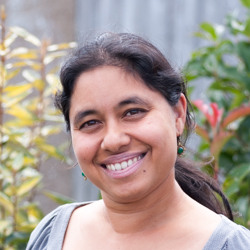
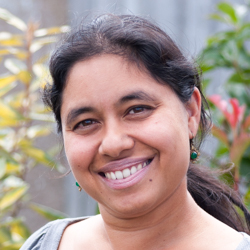
light changes why

diff --git a/index.html b/index.html
@@ -196,17 +196,13 @@
         <div><img alt="" class="icon" src="./img/mic.svg" /></div>
         <h1 class="spsf-color--first">Pourquoi <span class="spsf-name">Speak Safe</span>?</h1>
         <p><em>"&Ecirc;tre communicant n'est pas inné. On le devient"</em></p>
-        <p>La prise de parole vous sert à communiquer une idée à un groupe ou une personne.</p>
-        <p>Pour <strong>réussir</strong> votre communication, il faut <strong>lier la gestion du stress</strong> avec <strong>la construction</strong> de votre discours.</p>
+        <p>La prise de parole vous sert <strong>à communiquer</strong> une idée à un groupe ou une personne.</p>
+        <p>Pour <strong>réussir</strong> votre communication, il faut lier la gestion du stress et la construction de votre discours.</p>
         <br/>
         <h2 class="spsf-color--second"><span class="spsf-name">Speak Safe</span> vous permet :</h2>
-        <p><strong>De gagner du temps</strong> pour aller à l'essentiel.</p>
-        <p><strong>D'optimiser</strong> votre temps de parole dans le temps imparti.</p>
-        <p><strong>De réaliser</strong> des échanges <strong>efficaces</strong> pour garantir la compréhension du message.</p>
-        <!-- <p>Apprenez à parler librement en public en se sentant à l’aise :</p>
-        <p><strong><span class="spsf-name">Speak Safe</span> c’est croire en soi, se lancer, répéter et trouver la bonne méthode.</strong></p>
-        <p>Boostez votre message pour un meilleur impact !</p>
-        <p>Travaillez le fil conducteur du discours pour clarifier votre message.</p> -->
+        <p><strong>D'optimiser</strong> votre temps de parole.</p>
+        <p>D'obtenir des <strong>échanges efficaces</strong> pour garantir la compréhension du message.</p>
+        <p>De gagner du temps pour <strong>aller à l'essentiel</strong>.</p>
     </section>
 
     <!-- How -->
@@ -214,23 +210,20 @@
         <div><img alt="" class="icon" src="./img/send.svg" /></div>
         <h1 class="spsf-color--first">Pour qui?</h1>
         <br/>
-        <p><strong>Toute personne</strong> qui souhaite <strong>devenir communiquant</strong></p>
+        <p>Vous souhaitez devenir un <strong>bon communicant</strong> ?</p>
+        <p>Vous souhaitez <strong>découvrir</strong> ce qu'est la prise de parole ?</p>
         <p>Vous prenez la parole <strong>ponctuellement</strong> : meet-up, séminaire</p>
         <p>Vous prenez la parole <strong>tous les jours</strong> : réunions, présentations, démonstrations.</p>
-        <p>Vous souhaitez <strong>découvrir</strong> ce qu'est la prise de parole</p>
     </section>
 
     <section class="spsf-container spsf-center bg-grey-bottom" id="coaching">
         <div><img alt="" class="icon" src="./img/repeat.svg" /></div>
         <h1 class="spsf-color--first">Quelle méthode ?</h1>
-        <br/>
-        <p>Pour devenir un communicant <strong>opérationnel</strong>, il fait <strong>mettre en pratique la théorie pour la retenir</strong>.</p>
+        <p><em>Pour devenir un communicant opérationnel, il fait mettre en pratique la théorie pour la retenir.</em></p>
+        <p>Pour la <strong>gestion du stress</strong> : jouez avec la voix et votre texte ! Jouez avec votre public ! Construisez la relation !</p>
         <p><strong>Allez à l'essentiel</strong> par la mise en situation</p>
-        <p>Pour la gestion du stress et la construction de votre discours.</p>
-        <p><strong>Jouez avec la voix et votre texte ! Jouez avec votre public ! Construisez la relation !</strong></p>
-        <p>Challenger votre discours : le message est-il clair ?</p>
-        <p>Boostez votre message pour un meilleur impact !</p>
-        <p><strong><span class="spsf-name">Speak Safe</span> c'est croire en soi, se lancer, trouver la bonne méthode et se l'approprier.</strong></p>
+        <p>Pour la <strong>construction</strong> et la <strong>clareté</strong> du message: challengez, boostez votre discours !</p>
+        <p class="spsf-color--second spsf-large"><span class="spsf-name">Speak Safe</span> c'est croire en soi, se lancer, trouver la bonne méthode et se l'approprier.</p>
     </section>
 
     <!-- What -->
